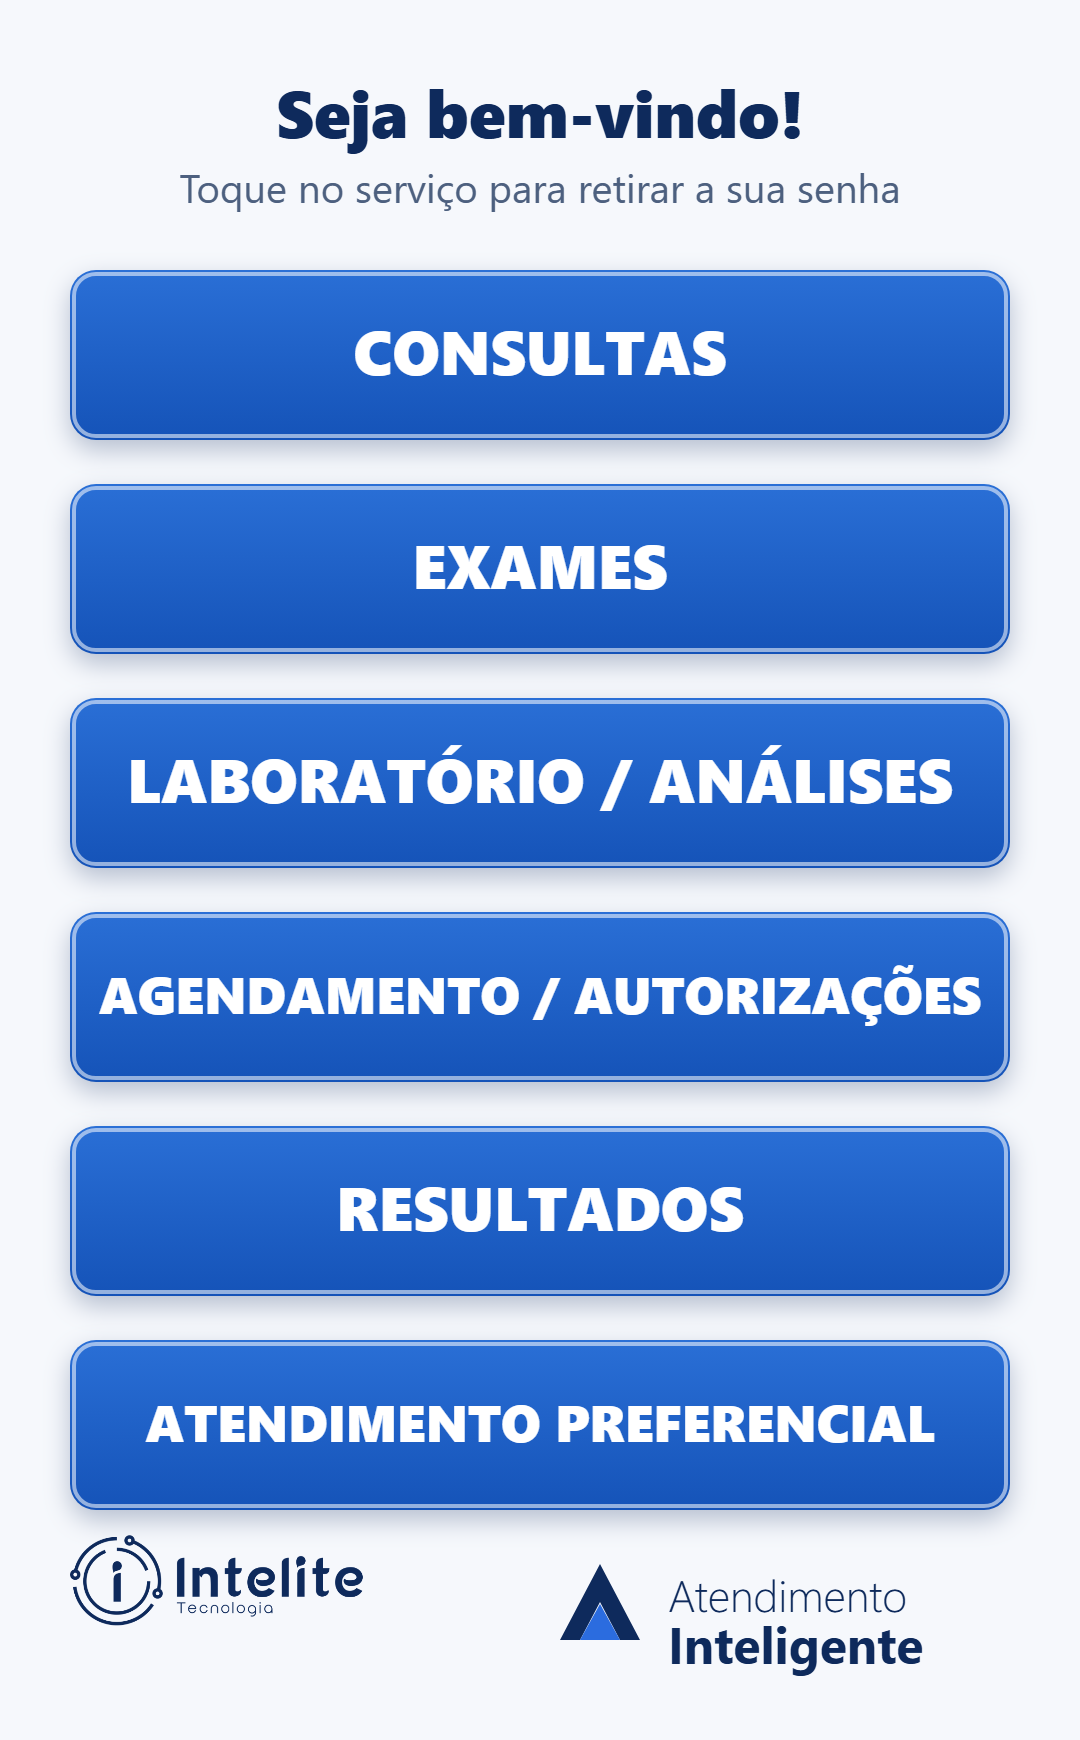
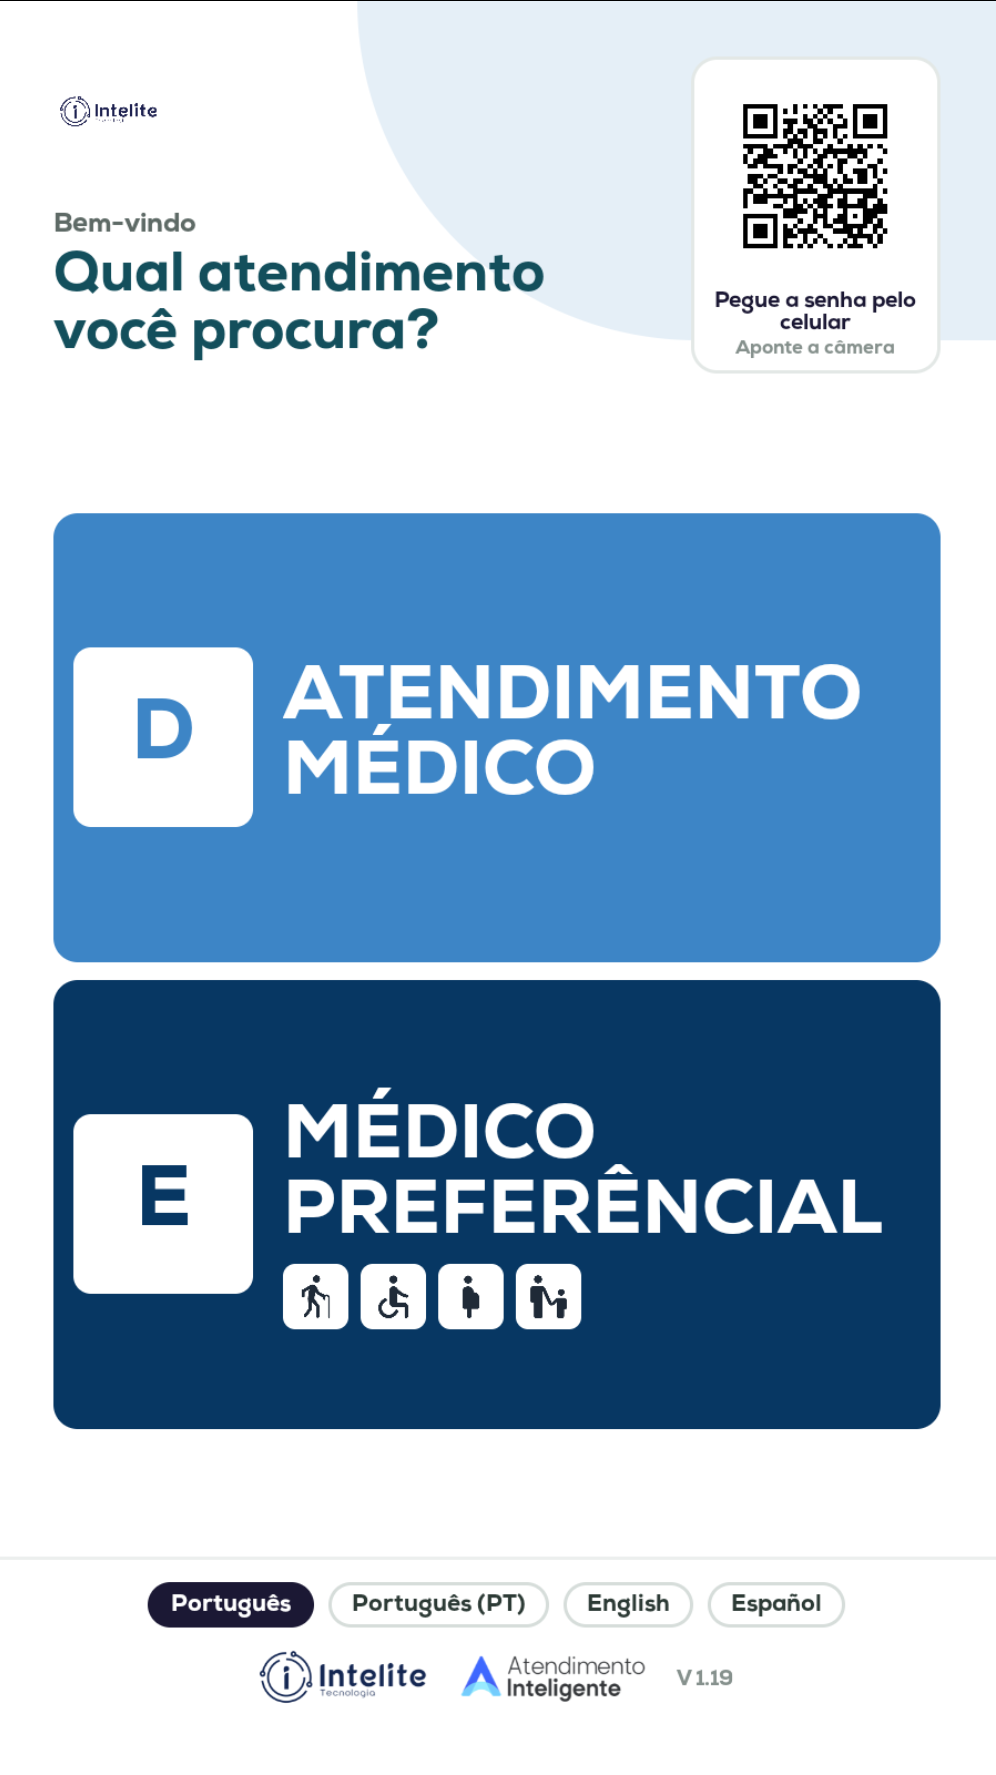
Totem 3D: tela com o layout real do app (Qual atendimento você procura?)

diff --git a/src/components/Totem3D.tsx b/src/components/Totem3D.tsx
@@ -8,7 +8,7 @@ type Three = typeof import("three");
  * Totem de autoatendimento da Intelite em 3D (three.js), na abertura. É um modelo procedural baseado nas fotos do equipamento
  * real: aço preto fosco (pintura em pó), coluna reta com janela de saída da senha e a logo da Intelite em branco, cabeça
  * inclinada para trás com a tela, caixa de aço atrás da coluna (com aletas de ventilação) e base larga e baixa, para trás.
- * A tela mostra /totem-tela.png (imagem ilustrativa do aplicativo): para mostrar o app real, troque esse arquivo por uma
+ * A tela mostra /totem-tela.png (captura do layout real do aplicativo no totem): para mostrar o app real, troque esse arquivo por uma
  * captura do totem na proporção 1080×1740. O cliente pode arrastar para girar; sem movimento quando o sistema pede menos
  * animação. Sem WebGL, cai no desenho em SVG.
  */
@@ -170,11 +170,11 @@ async function build(THREE: Three, RoomEnvironment: RoomEnv, RoundedBoxGeometry:
   // cabeça: placa inclinada para trás, apoiada no alto da coluna
   const head = new THREE.Group(); head.position.set(0, COL_TOP, FRONT_Z); head.rotation.x = -ALPHA; totem.add(head);
   // abertura da tela: moldura rebaixada, vidro e a imagem
-  const SW = 0.27, SH = 0.45, SC = 0.345;
+  const SW = 0.27, SH = 0.481, SC = 0.345; // proporção da imagem da tela (996×1775)
   head.add(rbox(SW + 0.018, SH + 0.018, 0.004, 0.004, lip, 0, SC, 0.0012));
   const screenMat = track(new THREE.MeshStandardMaterial({
-    map: screenTex ?? null, emissiveMap: screenTex ?? null, emissive: new THREE.Color(0xffffff), emissiveIntensity: 0.78,
-    color: screenTex ? 0xffffff : 0x14295c, roughness: 0.2, metalness: 0, envMapIntensity: 0.8,
+    map: screenTex ?? null, emissiveMap: screenTex ?? null, emissive: new THREE.Color(0xffffff), emissiveIntensity: 0.5,
+    color: screenTex ? 0xb4b4b4 : 0x14295c, roughness: 0.2, metalness: 0, envMapIntensity: 0.8,
   }));
   head.add(plane(SW, SH, screenMat, 0, SC, 0.0042));
   head.add(plane(SW, SH, track(new THREE.MeshPhysicalMaterial({ color: 0xffffff, transparent: true, opacity: 0.045, roughness: 0.03, metalness: 0, clearcoat: 1, clearcoatRoughness: 0.02 })), 0, SC, 0.0052));
